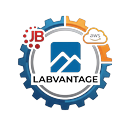
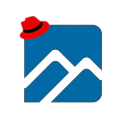
Publish JBoss Manager 0.4.1 downloads
Point Windows, macOS, and Ubuntu at the 0.4.1 release and update the app icon.

diff --git a/jboss-manager/index.html b/jboss-manager/index.html
@@ -112,7 +112,7 @@
     <header>
       <img src="icon.png" alt="">
       <div>
-        <p class="eyebrow">0.4.0</p>
+        <p class="eyebrow">0.4.1</p>
         <h1>JBoss Manager</h1>
       </div>
     </header>
@@ -124,27 +124,27 @@
     <img class="shot" src="dashboard.png" alt="JBoss Manager dashboard with the host list, Dev and Prod tabs, operations and the danger zone">
 
     <section>
-      <h2>Windows 0.4.0</h2>
+      <h2>Windows 0.4.1</h2>
       <ul>
-        <li><a class="download" href="https://github.com/AnassBounhar/public/releases/download/jboss-manager-v0.4.0/JBoss-Manager-0.4.0-win-x64-setup.exe">Installer <small>.exe</small></a></li>
-        <li><a class="download" href="https://github.com/AnassBounhar/public/releases/download/jboss-manager-v0.4.0/JBoss-Manager-0.4.0-win-x64.zip">Portable app <small>.zip</small></a></li>
+        <li><a class="download" href="https://github.com/AnassBounhar/public/releases/download/jboss-manager-v0.4.1/JBoss-Manager-0.4.1-win-x64-setup.exe">Installer <small>.exe</small></a></li>
+        <li><a class="download" href="https://github.com/AnassBounhar/public/releases/download/jboss-manager-v0.4.1/JBoss-Manager-0.4.1-win-x64.zip">Portable app <small>.zip</small></a></li>
       </ul>
       <p class="note">The installer puts the app in your user profile (<code>%LOCALAPPDATA%\JBoss Manager</code>), adds a Start Menu shortcut, and includes uninstall. Or unzip the portable app, keep the folder together, and run <code>jboss-manager-gui.exe</code>.</p>
     </section>
 
     <section>
-      <h2>macOS 0.4.0</h2>
+      <h2>macOS 0.4.1</h2>
       <ul>
-        <li><a class="download" href="https://github.com/AnassBounhar/public/releases/download/jboss-manager-v0.4.0/JBoss-Manager-0.4.0-mac-arm64.zip">Apple silicon app <small>.zip</small></a></li>
+        <li><a class="download" href="https://github.com/AnassBounhar/public/releases/download/jboss-manager-v0.4.1/JBoss-Manager-0.4.1-mac-arm64.zip">Apple silicon app <small>.zip</small></a></li>
       </ul>
       <p class="note">Unzip and move <code>JBoss Manager.app</code> to Applications. On the first launch, right-click the app and choose Open.</p>
     </section>
 
     <section>
-      <h2>Ubuntu 0.4.0</h2>
+      <h2>Ubuntu 0.4.1</h2>
       <ul>
-        <li><a class="download" href="https://github.com/AnassBounhar/public/releases/download/jboss-manager-v0.4.0/JBoss-Manager-0.4.0-linux-x86_64.deb">Debian package <small>0.4.0 .deb</small></a></li>
-        <li><a class="download" href="https://github.com/AnassBounhar/public/releases/download/jboss-manager-v0.4.0/JBoss-Manager-0.4.0-linux-x86_64.tar.gz">x86_64 app <small>0.4.0 .tar.gz</small></a></li>
+        <li><a class="download" href="https://github.com/AnassBounhar/public/releases/download/jboss-manager-v0.4.1/JBoss-Manager-0.4.1-linux-x86_64.deb">Debian package <small>0.4.1 .deb</small></a></li>
+        <li><a class="download" href="https://github.com/AnassBounhar/public/releases/download/jboss-manager-v0.4.1/JBoss-Manager-0.4.1-linux-x86_64.tar.gz">x86_64 app <small>0.4.1 .tar.gz</small></a></li>
       </ul>
       <p class="note">Install the .deb (it adds a menu entry and the <code>jboss-manager-gui</code> command). Or extract the archive and run <code>jboss-manager-gui/jboss-manager-gui</code>. Install <code>libxcb-cursor0</code> if Qt asks for it. The top-bar icon needs the AppIndicator extension.</p>
     </section>
@@ -152,7 +152,7 @@
       These builds are unsigned, so Windows and macOS warn on the first launch.
       The target servers need PowerShell remoting (<code>Enable-PSRemoting -Force</code>); the full guide is in the app under Settings &gt; WinRM.
       All platforms are on the
-      <a href="https://github.com/AnassBounhar/public/releases/tag/jboss-manager-v0.4.0">0.4.0 release</a>.
+      <a href="https://github.com/AnassBounhar/public/releases/tag/jboss-manager-v0.4.1">0.4.1 release</a>.
     </p>
   </main>
 </body>

diff --git a/jboss-manager/README.md b/jboss-manager/README.md
@@ -1,7 +1,7 @@
 # JBoss Manager
 
-Public download page for version 0.4.0.
+Public download page for version 0.4.1.
 
 The page is published at <https://anassbounhar.github.io/public/jboss-manager/>.
 
-The builds are attached to the [jboss-manager-v0.4.0 release](https://github.com/AnassBounhar/public/releases/tag/jboss-manager-v0.4.0).
+The builds are attached to the [jboss-manager-v0.4.1 release](https://github.com/AnassBounhar/public/releases/tag/jboss-manager-v0.4.1).
